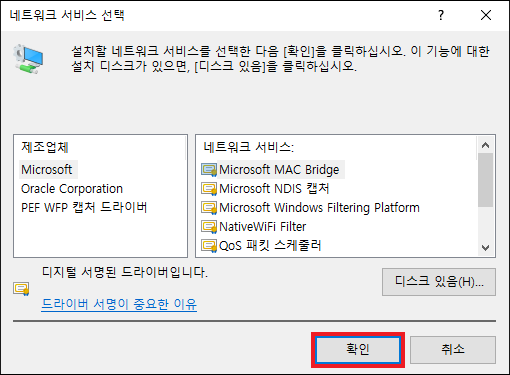
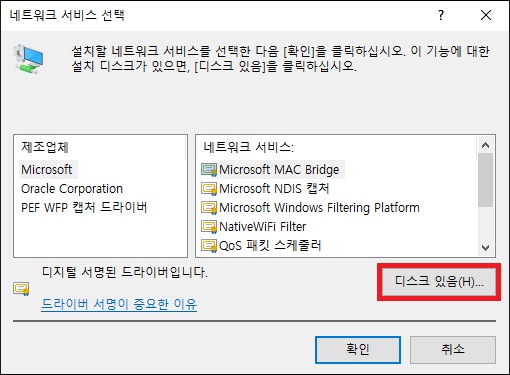
commit

Changed region(s): [[0.7353, 0.704, 1.0, 0.8213], [0.5882, 0.88, 0.7941, 0.9973]]

diff --git a/VirtualBox/03 make bridge adapter/make bridge adapter.md b/VirtualBox/03 make bridge adapter/make bridge adapter.md
@@ -1,0 +1,89 @@
+# VirtualBox 브릿지 어댑터 등록
+
+## 시작
+
+ - 간혹 VirtualBox에서 Bridge Adapter를 사용하려고 하는 경우 아래와 같이 어댑터를 찾지 못하는 문제에 직면하게 된다.
+ - 이와 관련하여VirtualBox 게스트 네트워크 드라이버 문제로서 네트워크 드라이버 설치 과정에 대해 설명한다.
+
+<img src="https://github.com/huvso/study/blob/master/VirtualBox/03%20make%20bridge%20adapter/img/01.png?raw=true" align="center" title="make bridge adapter 01" alt="make bridge adapter 01"></img>
+
+******************
+
+## VirtualBox 네트워크 드라이버 설치
+<img src="https://github.com/huvso/study/blob/master/VirtualBox/03%20make%20bridge%20adapter/img/02_marked.png?raw=true" align="center" title="make bridge adapter 02" alt="make bridge adapter 02"></img>
+```
+1. 제어판 이동(win+R -> control 입력)
+2. 네트워크 및 공유 센터 클릭
+```
+******************
+
+<img src="https://github.com/huvso/study/blob/master/VirtualBox/03%20make%20bridge%20adapter/img/03_marked.png?raw=true" align="center" title="make bridge adapter 03" alt="make bridge adapter 03"></img>
+```
+1. 어댑터 설정 변경 클릭
+```
+******************
+
+<img src="https://github.com/huvso/study/blob/master/VirtualBox/03%20make%20bridge%20adapter/img/05_marked.png?raw=true" align="center" title="make bridge adapter 05" alt="make bridge adapter 05"></img>
+```
+1. VirtualBox Host-Only Ethernet Adapter 마우스 우측 클릭
+2. 속성 클릭
+```
+******************
+
+<img src="https://github.com/huvso/study/blob/master/VirtualBox/03%20make%20bridge%20adapter/img/06_marked.png?raw=true" align="center" title="make bridge adapter 06" alt="make bridge adapter 06"></img>
+```
+1. 설치 클릭
+```
+******************
+
+<img src="https://github.com/huvso/study/blob/master/VirtualBox/03%20make%20bridge%20adapter/img/07_marked.png?raw=true" align="center" title="make bridge adapter 07" alt="make bridge adapter 07"></img>
+```
+1. 서비스 클릭
+2. 추가 클릭
+```
+******************
+
+<img src="https://github.com/huvso/study/blob/master/VirtualBox/03%20make%20bridge%20adapter/img/08_marked.png?raw=true" align="center" title="make bridge adapter 08" alt="make bridge adapter 08"></img>
+```
+1. 디스크 있음 클릭
+```
+******************
+
+<img src="https://github.com/huvso/study/blob/master/VirtualBox/03%20make%20bridge%20adapter/img/09_marked.png?raw=true" align="center" title="make bridge adapter 09" alt="make bridge adapter 09"></img>
+```
+1. 찾아보기 클릭
+```
+******************
+
+<img src="https://github.com/huvso/study/blob/master/VirtualBox/03%20make%20bridge%20adapter/img/10_marked.png?raw=true" align="center" title="make bridge adapter 10" alt="make bridge adapter 10"></img>
+```
+1. "C:\Program Files\Oracle\VirtualBox\drivers\network\netlwf" 경로 이동
+2. VBoxNetLwf.inf 클릭
+3. 열기 클릭
+```
+******************
+
+<img src="https://github.com/huvso/study/blob/master/VirtualBox/03%20make%20bridge%20adapter/img/11_marked.png?raw=true" align="center" title="make bridge adapter 11" alt="make bridge adapter 11"></img>
+```
+1. 확인 클릭
+```
+******************
+
+<img src="https://github.com/huvso/study/blob/master/VirtualBox/03%20make%20bridge%20adapter/img/12_marked.png?raw=true" align="center" title="make bridge adapter 12" alt="make bridge adapter 12"></img>
+```
+1. 확인 클릭
+```
+******************
+
+<img src="https://github.com/huvso/study/blob/master/VirtualBox/03%20make%20bridge%20adapter/img/13_marked.png?raw=true" align="center" title="make bridge adapter 13" alt="make bridge adapter 13"></img>
+```
+1. VirtualBox NDIS6 Bridged Networking Driver 추가 확인
+2. 확인 클릭
+```
+******************
+
+<img src="https://github.com/huvso/study/blob/master/VirtualBox/03%20make%20bridge%20adapter/img/14_marked.png?raw=true" align="center" title="make bridge adapter 14" alt="make bridge adapter 14"></img>
+```
+1. VirtualBox 가상머신 네트워크 브릿지 이름 확인
+```
+******************
